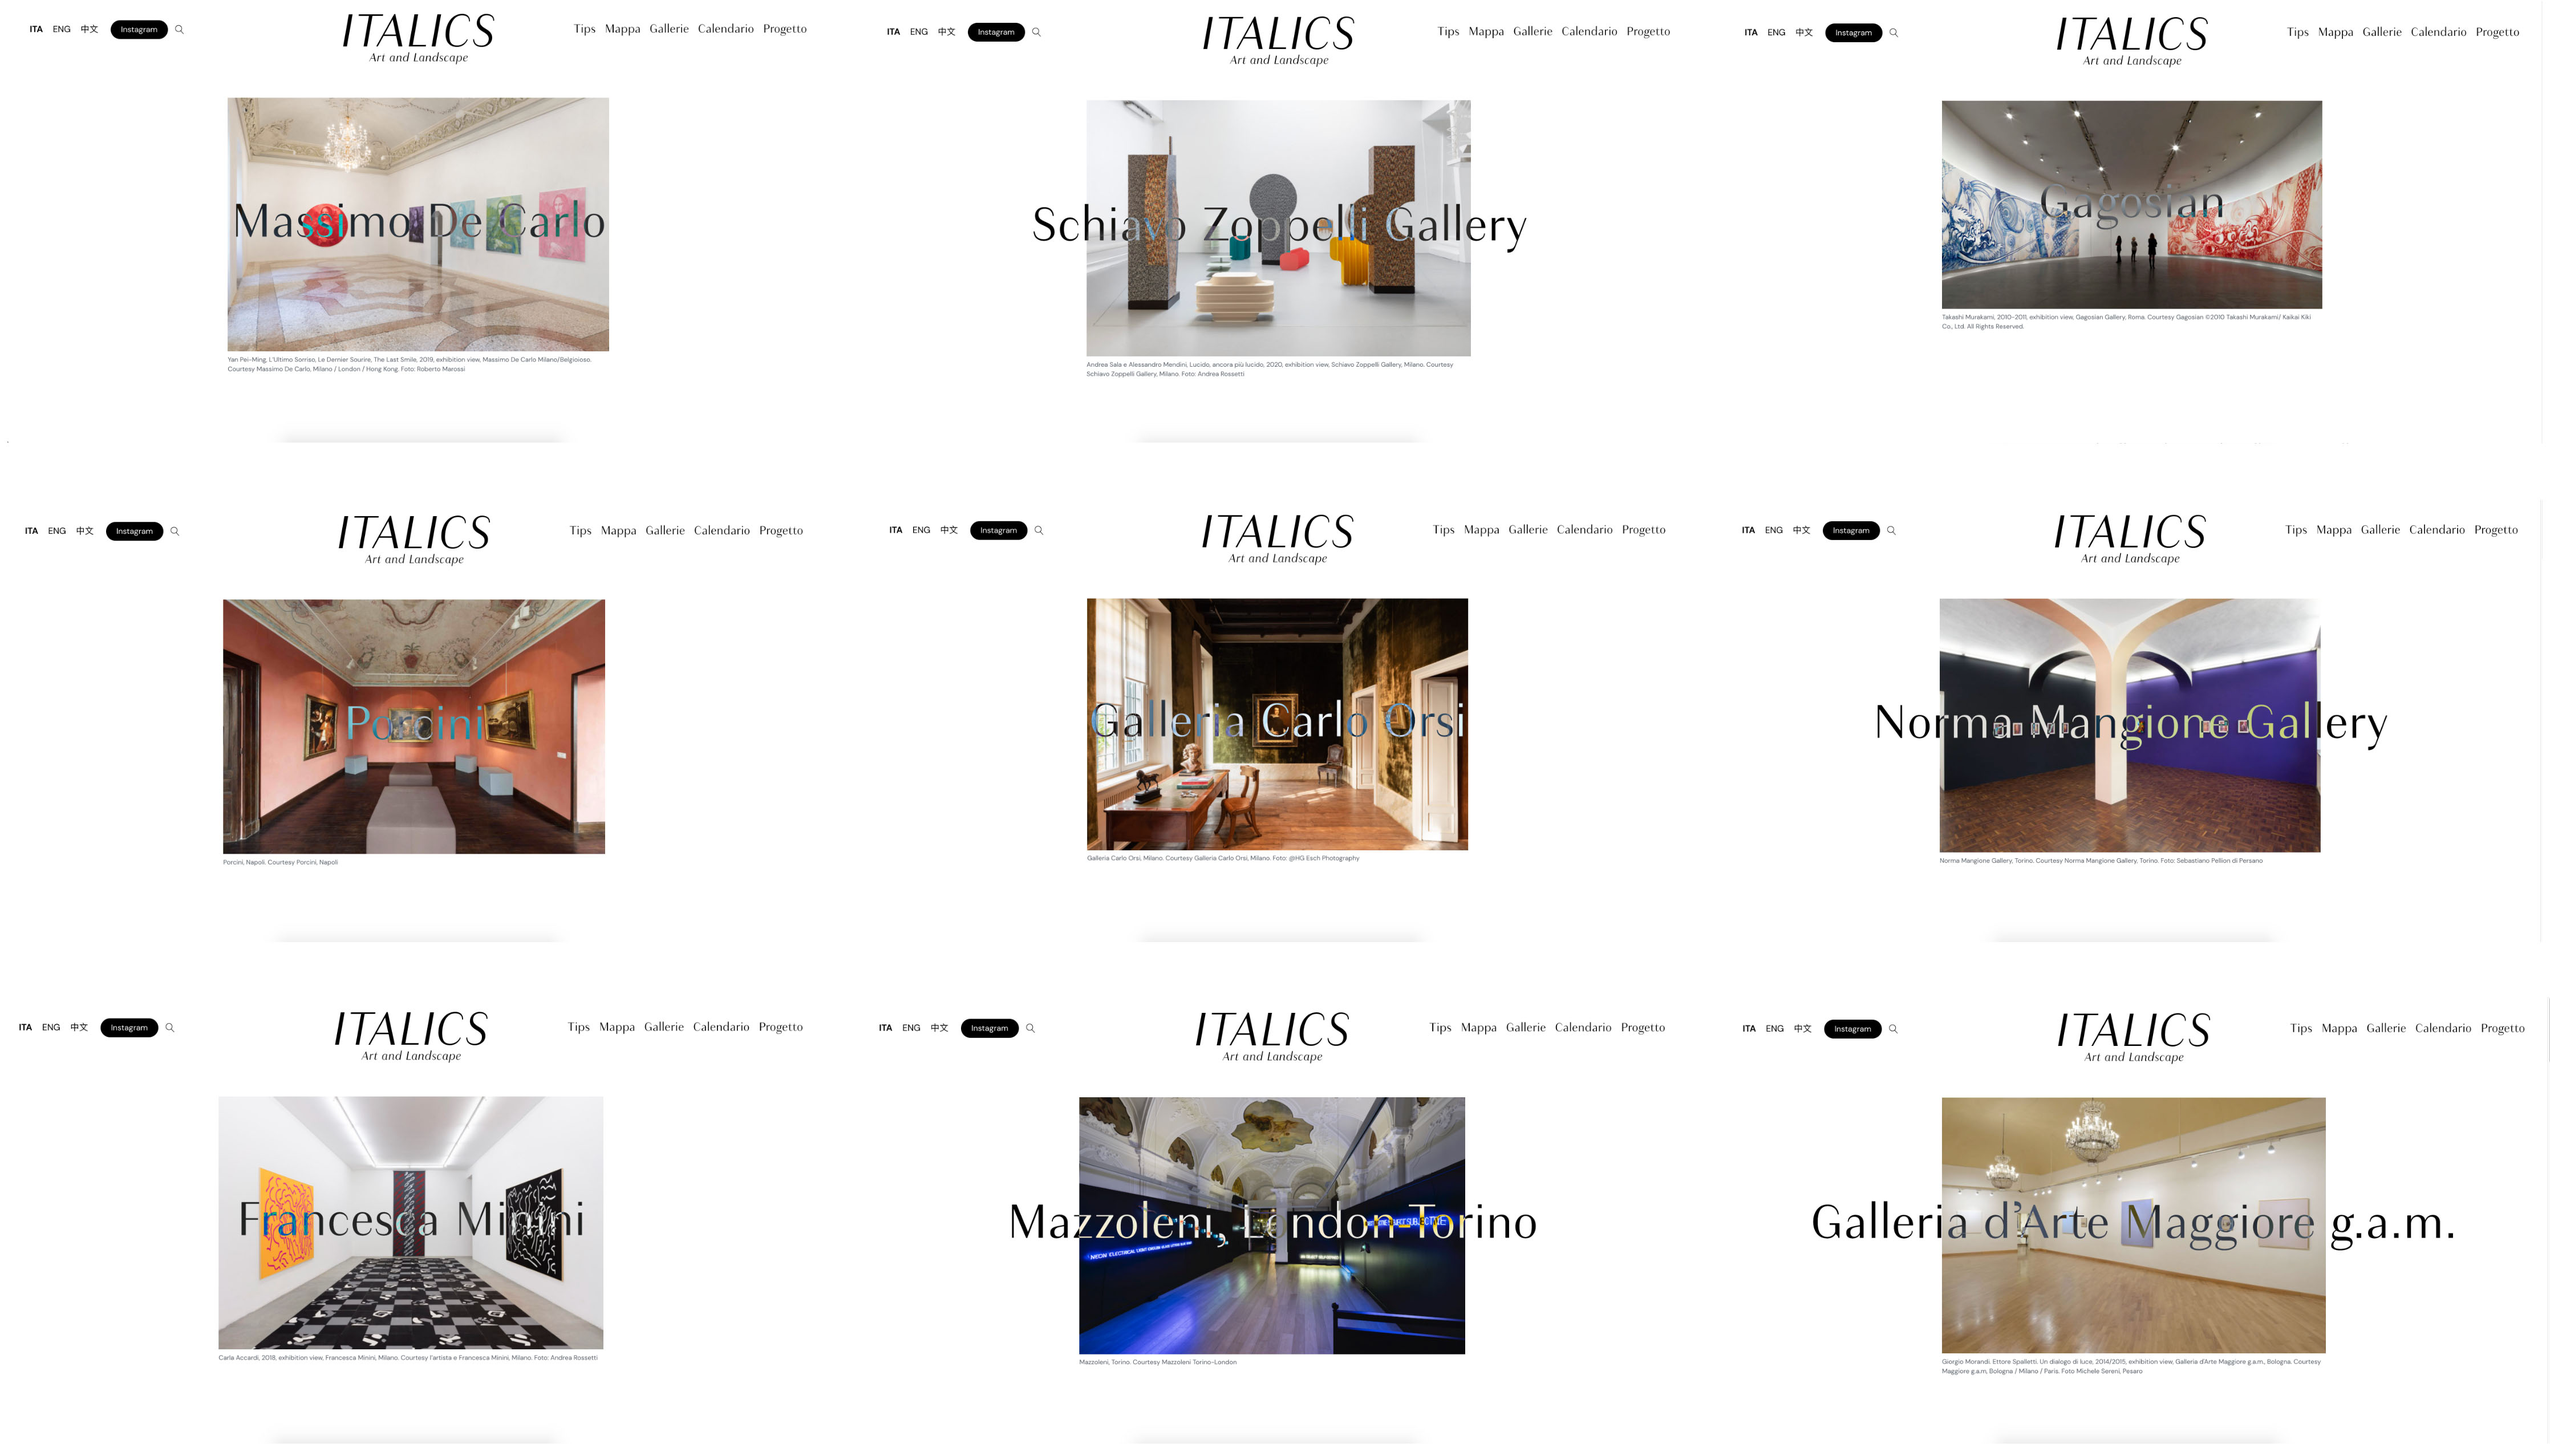
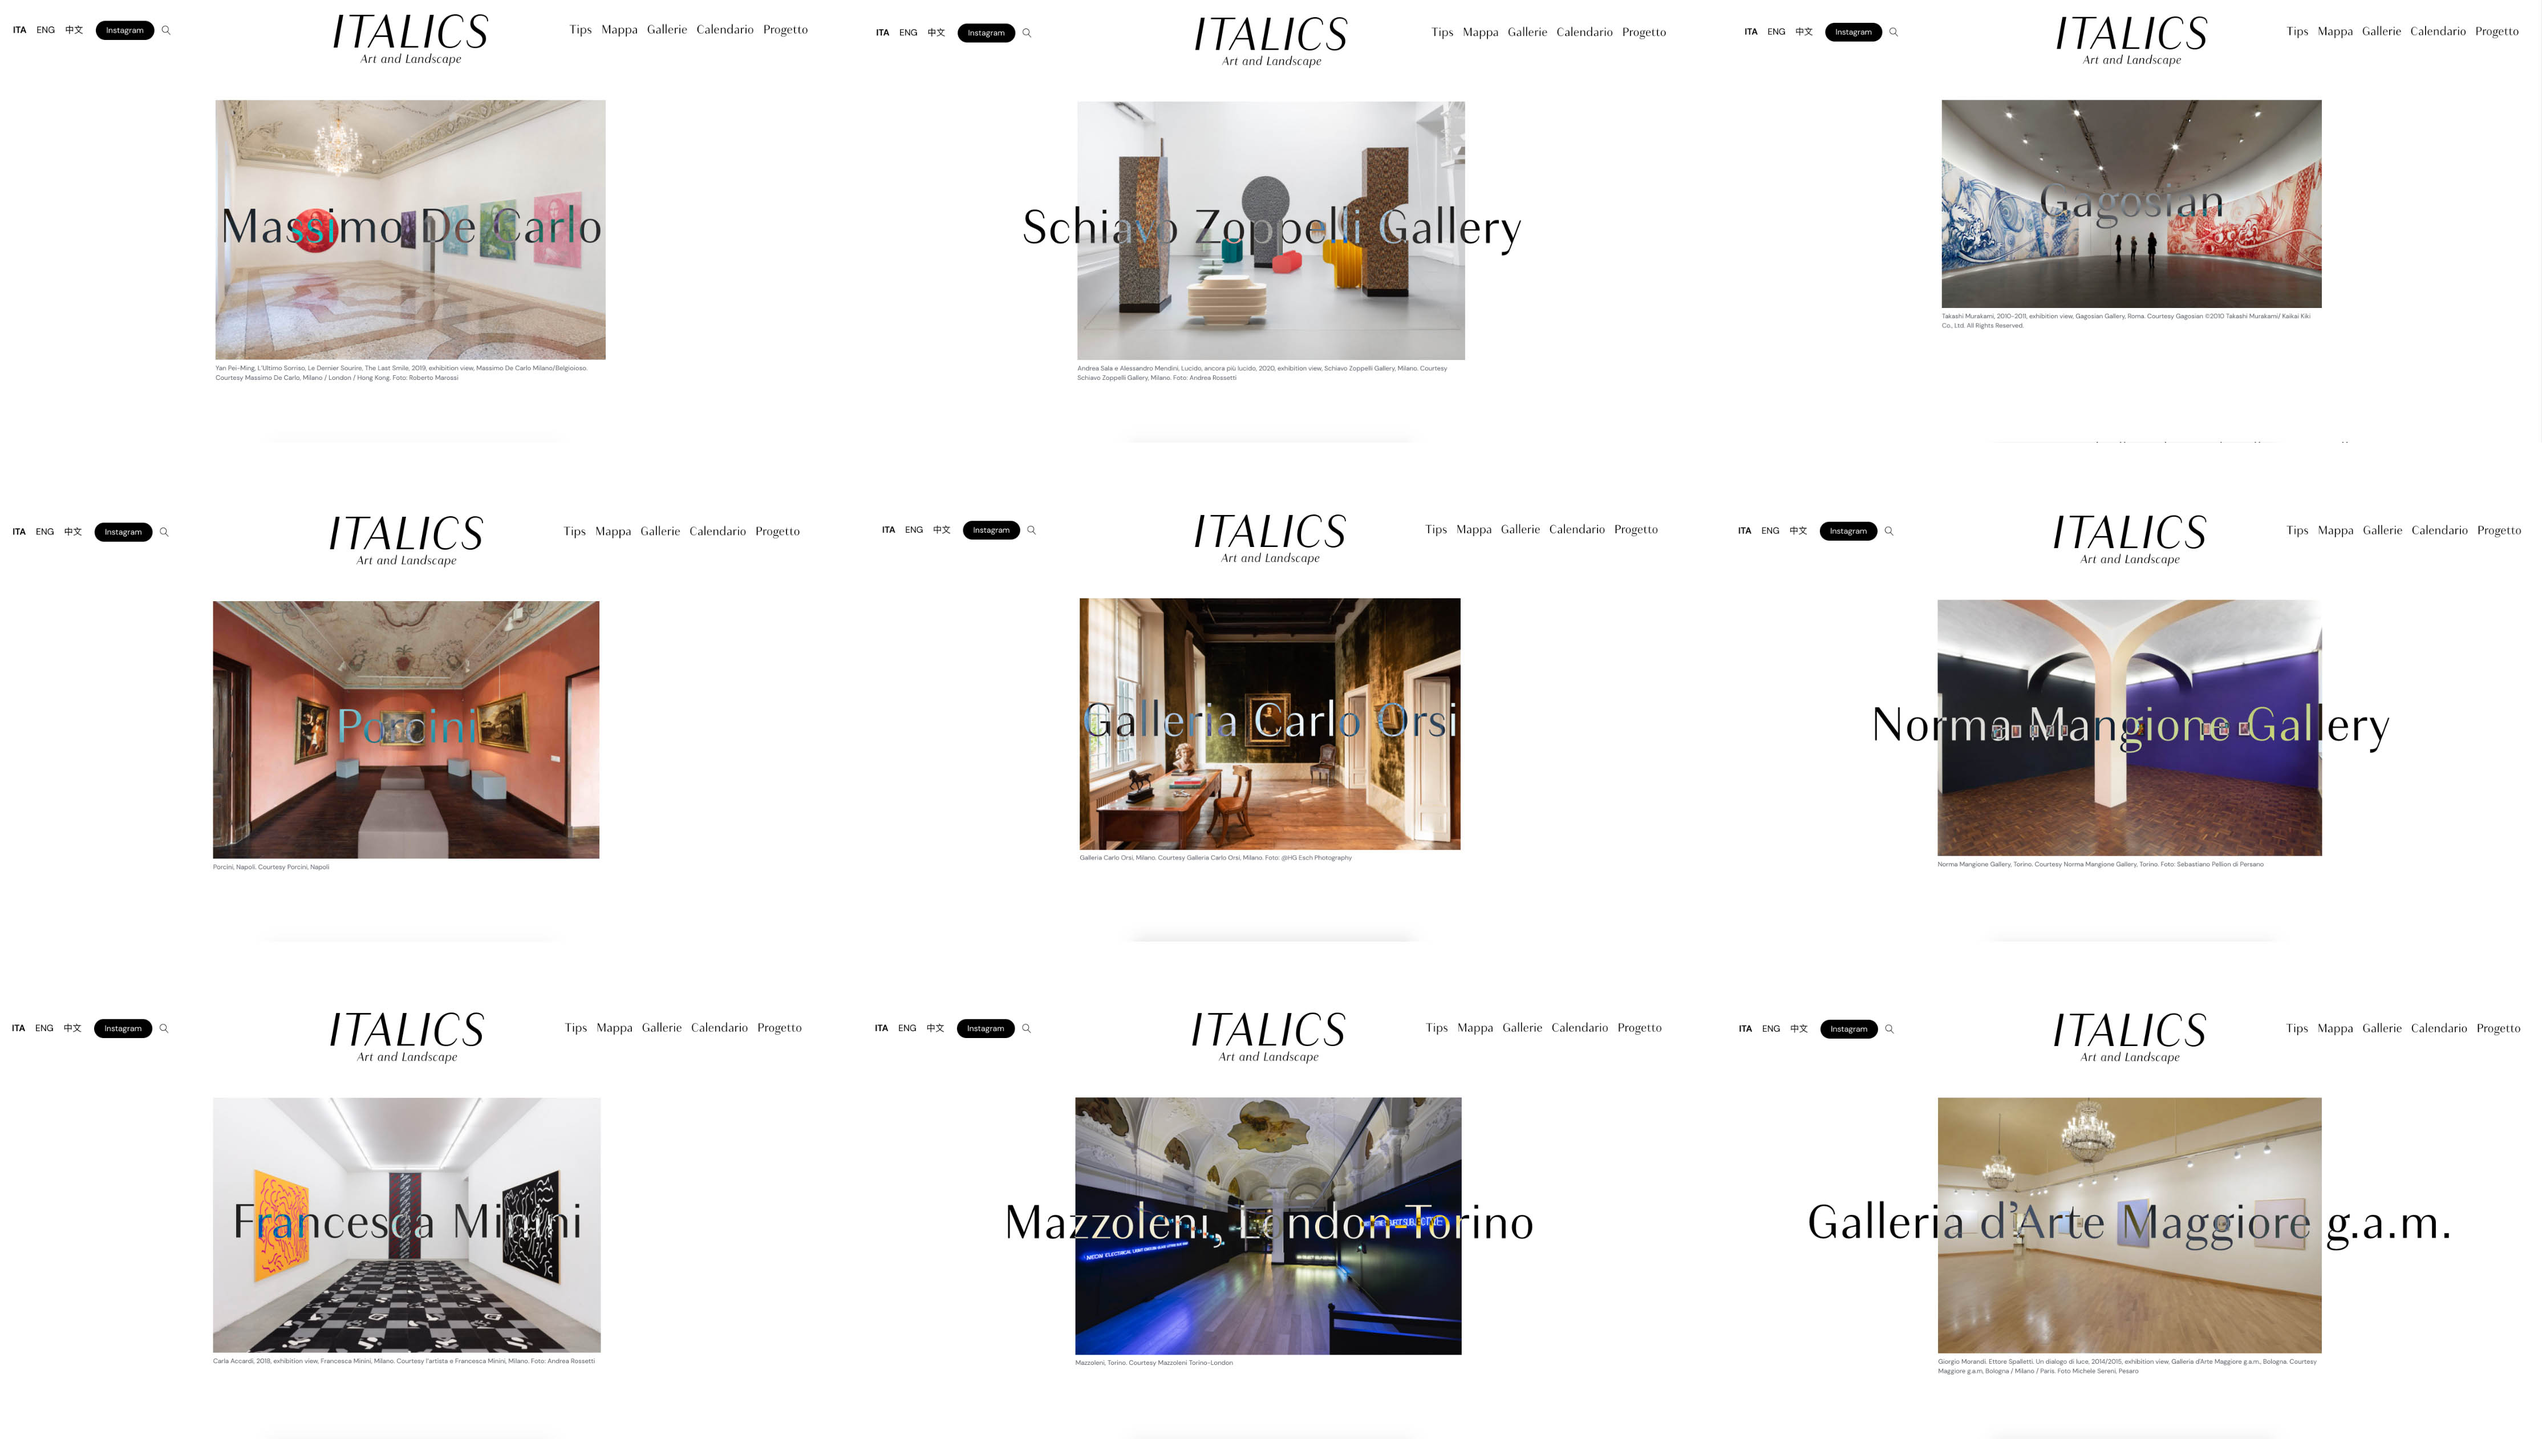
pushatina link aggiornati

diff --git a/index.html b/index.html
@@ -23,9 +23,9 @@
 <body>
   <div class="home-container" id="homesection">
     <p>Huiling Li<br>Communication Designer<br>Milan, Italy</p>
-    <p>From art institutions to large corporates, I take care of brand identity for all kinds of clients by offering different visual experiences.<br>Trying to capture the Zeitgeist.</p>
+    <p>Currently designing at <a href="https://leftloft.com/" target="_blank">Leftloft</a>.<br>From art institutions to large corporates, I take care of brand identity for all kinds of clients by offering different visual experiences.<br>Trying to capture the Zeitgeist.</p>
     <p class="contacts-home"><span class="btn-pastemail-mob">Huiling.li.cn(at)gmail.com <img id="mail-icon" src="svg/icona_link2.svg" alt="copy link"></span><span class="mob-hidden" id="copy-link"> (copy email)</span><br>
-      <span class="email-copied-confirmation des-hidden">email copied !<br></span><a href="">Instagram</a><span>&nbsp;&nbsp;</span><a href="">Linkedin</a></p>
+      <span class="email-copied-confirmation des-hidden">email copied !<br></span><a href="https://www.instagram.com/paopaoli11/" target="_blank">Instagram</a><span>&nbsp;&nbsp;</span><a href="https://www.linkedin.com/in/li-huiling-5820716a/" target="_blank">Linkedin</a></p>
 
     <div class="scroll-more"><img class="arrow-scroll-more scroll-more-btn" src="svg/arrows.svg" alt="v"><p class="scroll-more-btn">Scroll for more</p></div>
     <div class="home-bg-container">
@@ -184,7 +184,7 @@
            </div>
          </div>
          <div class="grid-content-page">
-           <img class="proj-img-1-12 lazyload" src="assets/imgs/italics/italics-2loww.jpg" data-src="assets/imgs/italics/italics-2.jpg" alt="">
+           <img class="proj-img-1-12 lazyload" data-src="assets/imgs/italics/italics-2.jpg" alt="">
          </div>
          <div class="grid-content-page">
            <div class="proj-img-1-12">
@@ -195,9 +195,9 @@
          </div>
          <div class="grid-content-page">
            <img class="proj-img-1-12 mob-hidden lazyload" data-src="assets/imgs/italics/italics-3.jpg" alt="">
-           <img class="proj-img-1-12 des-hidden margin-on-mob lazyload" src="assets/imgs/italics/italics-3-1.jpg" alt="">
-           <img class="proj-img-1-12 des-hidden margin-on-mob lazyload" src="assets/imgs/italics/italics-3-2.jpg" alt="">
-           <img class="proj-img-1-12 des-hidden margin-on-mob lazyload" src="assets/imgs/italics/italics-3-3.jpg" alt="">
+           <img class="proj-img-1-12 des-hidden margin-on-mob lazyload" data-src="assets/imgs/italics/italics-3-1.jpg" alt="">
+           <img class="proj-img-1-12 des-hidden margin-on-mob lazyload" data-src="assets/imgs/italics/italics-3-2.jpg" alt="">
+           <img class="proj-img-1-12 des-hidden margin-on-mob lazyload" data-src="assets/imgs/italics/italics-3-3.jpg" alt="">
          </div>
          <div class="grid-content-page">
            <img class="proj-img-1-12 lazyload" data-src="assets/imgs/italics/italics-4.jpg" alt="">
@@ -346,12 +346,12 @@
             </div>
         </div>
         <div class="grid-content-page">
-          <img loading="lazy" class="proj-img-1-5 margin-on-mob" src="assets/imgs/icon/icon-1.jpg" alt="">
-          <img loading="lazy" class="proj-img-1-12 des-hidden" src="assets/imgs/icon/icon-2.jpg" alt="">
+          <img class="proj-img-1-5 margin-on-mob lazyload" data-src="assets/imgs/icon/icon-1.jpg" alt="">
+          <img class="proj-img-1-12 des-hidden lazyload" data-src="assets/imgs/icon/icon-2.jpg" alt="">
           <div class="proj-img-6-12 icon-2 mob-hidden"></div>
         </div>
         <div class="grid-content-page">
-          <img loading="lazy" class="proj-img-1-12" src="assets/imgs/icon/icon-3.jpg" alt="">
+          <img class="proj-img-1-12 lazyload" data-src="assets/imgs/icon/icon-3.jpg" alt="">
         </div>
         <div class="grid-content-page">
           <div class="proj-img-3-10">
@@ -369,11 +369,11 @@
             </div>
         </div>
         <div class="grid-content-page">
-          <img loading="lazy" class="proj-img-1-5" src="assets/imgs/icon/icon-4.jpg" alt="">
+          <img class="proj-img-1-5 lazyload" data-src="assets/imgs/icon/icon-4.jpg" alt="">
           <div class="proj-img-6-12 icon-3"></div>
         </div>
         <div class="grid-content-page">
-          <img loading="lazy" class="proj-img-1-12" src="assets/imgs/icon/icon-6.jpg" alt="">
+          <img class="proj-img-1-12 lazyload" data-src="assets/imgs/icon/icon-6.jpg" alt="">
         </div>
         <div class="grid-content-page">
           <div class="proj-img-3-10">
@@ -391,11 +391,11 @@
             </div>
         </div>
         <div class="grid-content-page">
-          <img loading="lazy"class="proj-img-1-5" src="assets/imgs/icon/icon-7.jpg" alt="">
+          <img class="proj-img-1-5 lazyload" data-src="assets/imgs/icon/icon-7.jpg" alt="">
           <div class="proj-img-6-12 icon-4"></div>
         </div>
         <div class="grid-content-page">
-          <img loading="lazy" class="proj-img-1-12" src="assets/imgs/icon/icon-9.jpg" alt="">
+          <img class="proj-img-1-12 lazyload" data-src="assets/imgs/icon/icon-9.jpg" alt="">
         </div>
         <div class="grid-content-page">
           <div class="proj-img-3-10">
@@ -413,11 +413,11 @@
             </div>
         </div>
         <div class="grid-content-page">
-          <img loading="lazy" class="proj-img-1-5" src="assets/imgs/icon/icon-10.jpg" alt="">
+          <img class="proj-img-1-5 lazyload" data-src="assets/imgs/icon/icon-10.jpg" alt="">
           <div class="proj-img-6-12 icon-5"></div>
         </div>
         <div class="grid-content-page">
-          <img loading="lazy" class="proj-img-1-12" src="assets/imgs/icon/icon-12.jpg" alt="">
+          <img class="proj-img-1-12 lazyload" data-src="assets/imgs/icon/icon-12.jpg" alt="">
         </div>
         <div class="grid-content-page">
           <div class="proj-img-3-10">
@@ -600,29 +600,29 @@
           <p class="project-description">Maxxi&Bulgari is a prize that rewards and givesencouragement to international young artists.We’ve been asked to create a campaign andcatalogue for the event and exhibition in 2018. By using gold palettes in an unconventional way, this project aimed to integrate the values of a luxury brand with the world of contemporary art.</p>
         </div>
         <div class="grid-content-page">
-          <img loading="lazy" class="proj-img-1-12" src="assets/imgs/maxxi/maxxi-1.jpg" alt="">
+          <img class="proj-img-1-12 lazyload" data-src="assets/imgs/maxxi/maxxi-1.jpg" alt="">
         </div>
         <div class="grid-content-page">
-          <img loading="lazy" class="proj-img-1-6" src="assets/imgs/maxxi/maxxi-2.jpg" alt="">
-          <img loading="lazy" class="proj-img-7-12" src="assets/imgs/maxxi/maxxi-3.jpg" alt="">
+          <img class="proj-img-1-6 lazyload" data-src="assets/imgs/maxxi/maxxi-2.jpg" alt="">
+          <img class="proj-img-7-12 lazyload" data-src="assets/imgs/maxxi/maxxi-3.jpg" alt="">
         </div>
         <div class="grid-content-page">
-          <img loading="lazy" class="proj-img-1-12" src="assets/imgs/maxxi/maxxi-4.jpg" alt="">
+          <img class="proj-img-1-12 lazyload" data-src="assets/imgs/maxxi/maxxi-4.jpg" alt="">
         </div>
         <div class="grid-content-page">
-          <img loading="lazy" class="proj-img-1-12" src="assets/imgs/maxxi/maxxi-5.jpg" alt="">
+          <img class="proj-img-1-12 lazyload" data-src="assets/imgs/maxxi/maxxi-5.jpg" alt="">
         </div>
         <div class="grid-content-page">
-          <img loading="lazy" class="proj-img-1-12" src="assets/imgs/maxxi/maxxi-6.jpg" alt="">
+          <img class="proj-img-1-12 lazyload" data-src="assets/imgs/maxxi/maxxi-6.jpg" alt="">
         </div>
         <div class="grid-content-page">
-          <img loading="lazy" class="proj-img-1-12" src="assets/imgs/maxxi/maxxi-7.jpg" alt="">
+          <img class="proj-img-1-12 lazyload" data-src="assets/imgs/maxxi/maxxi-7.jpg" alt="">
         </div>
         <div class="grid-content-page">
-          <img loading="lazy" class="proj-img-1-12" src="assets/imgs/maxxi/maxxi-8.jpg" alt="">
+          <img class="proj-img-1-12 lazyload" data-src="assets/imgs/maxxi/maxxi-8.jpg" alt="">
         </div>
         <div class="grid-content-page">
-          <img loading="lazy" class="proj-img-1-12" src="assets/imgs/maxxi/maxxi-9.jpg" alt="">
+          <img class="proj-img-1-12 lazyload" data-src="assets/imgs/maxxi/maxxi-9.jpg" alt="">
         </div>
          <div class="grid-content-page closing-proj-section">
            <h2 class="closing-proj-text">Thanks for scrolling,<br>have a look of next project?</h2>
@@ -684,7 +684,7 @@
               <iframe class="lazyload" data-src="https://player.vimeo.com/video/495813776?title=0&byline=0&portrait=0&autoplay=1&loop=1&autopause=0&color=ff5900&background=1&muted=1?controls=0" webkitallowfullscreen="" mozallowfullscreen="" allowfullscreen="" frameborder="0" style="position:absolute;top:0;left:0;width:100%;height:100%;"></iframe>
             </div>
           </div>
-        </div>  
+        </div>
         <div class="grid-content-page">
           <img loading="lazy" class="proj-img-1-6 margin-on-mob" src="assets/imgs/land/land-8.jpg" alt="">
           <img loading="lazy" class="proj-img-7-12" src="assets/imgs/land/land-9.jpg" alt="">
@@ -712,7 +712,7 @@
       </div>
       <div class="project-content">
         <div class="grid-content-page">
-          <p class="project-description">With Leftloft, we designed a new communication format that will be used in the year 2018, for one of the most important Italian companies, Magneti Marelli. This format includes spatial design for international trade fairs (United States, China), graphic layout for different communication tools, both digital and print matters.</p>
+          <p class="project-description">During my collaboration with Leftloft, I have produced mostly digital content for its social network, by designing specific content for the different social platform, it’s easier to present complex projects for a more generic audience.</p>
         </div>
         <div class="grid-content-page">
           <div class="proj-img-1-6 margin-on-mob">
@@ -782,7 +782,7 @@
   <div class="footer-container" id="footersection">
     <p class="info-footer">Drop me a line for collaboration<br><span class="btn-pastemail-mob-footer">Huiling.li.cn(at)gmail.com <img id="mail-icon-footer" src="svg/icona_link2.svg" alt="copy link"></span><span class="mob-hidden" id="copy-link-footer"> (copy email)</span><br><span class="email-copied-confirmation-footer des-hidden">email copied !</span></p>
       <div class="credits-container">
-        <p class="social-footer-container"><a href="">Instagram →</a><br><a href="">Linkedin →</a></p>
+        <p class="social-footer-container"><a href="https://www.instagram.com/paopaoli11/">Instagram →</a><br><a href="https://www.linkedin.com/in/li-huiling-5820716a/" target="_blank">Linkedin →</a></p>
         <p class="credits-footer">Web Design by Huiling Li<br>Developed by Alberto Candido</p>
         <p class="copyright">All trademarks, images, logos in this portfolio are the property of their respective owners.</p>
     </div>

diff --git a/style.css b/style.css
@@ -435,6 +435,7 @@ h1 {
   z-index: 9;
 }
 .link-sito {
+  position: relative;
   list-style-type: none;
   display: flex;
   flex-direction: row;
@@ -779,6 +780,11 @@ body .project-active #project-page .project-image:before, body .project-active #
   padding-bottom: 40px;
 }
 /* project video preview*/
+#project-page .closing-proj-section h2::selection {
+  background: pink;
+  color: white;
+  mix-blend-mode: difference;
+}
 
 .project-video-preview-container {
     float: none;

diff --git a/roba_buona_2.js b/roba_buona_2.js
@@ -1,7 +1,13 @@
 document.addEventListener('lazyloaded', function(e){
+
+  if(isDesktop()){
+    //ScrollTrigger.refresh();
+    //console.log("refreshato su desk!");
+  }
   //ScrollTrigger.refresh();
   //console.log("refreshatooo!");
 });
+
 
 var stoppalo;
 var cont = 0;
